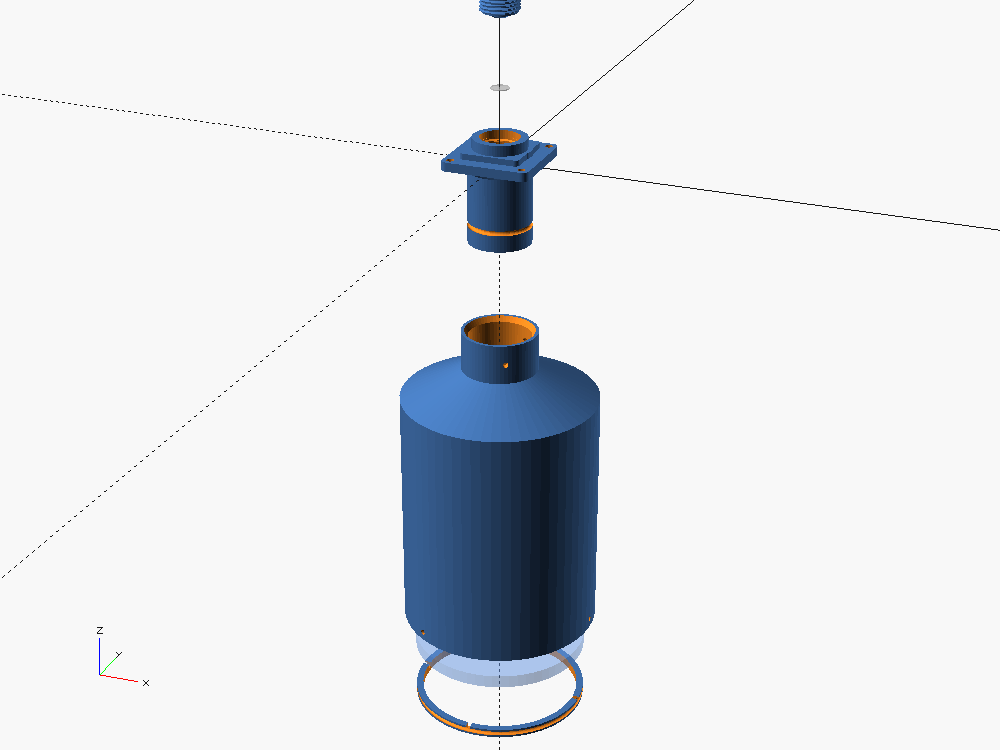
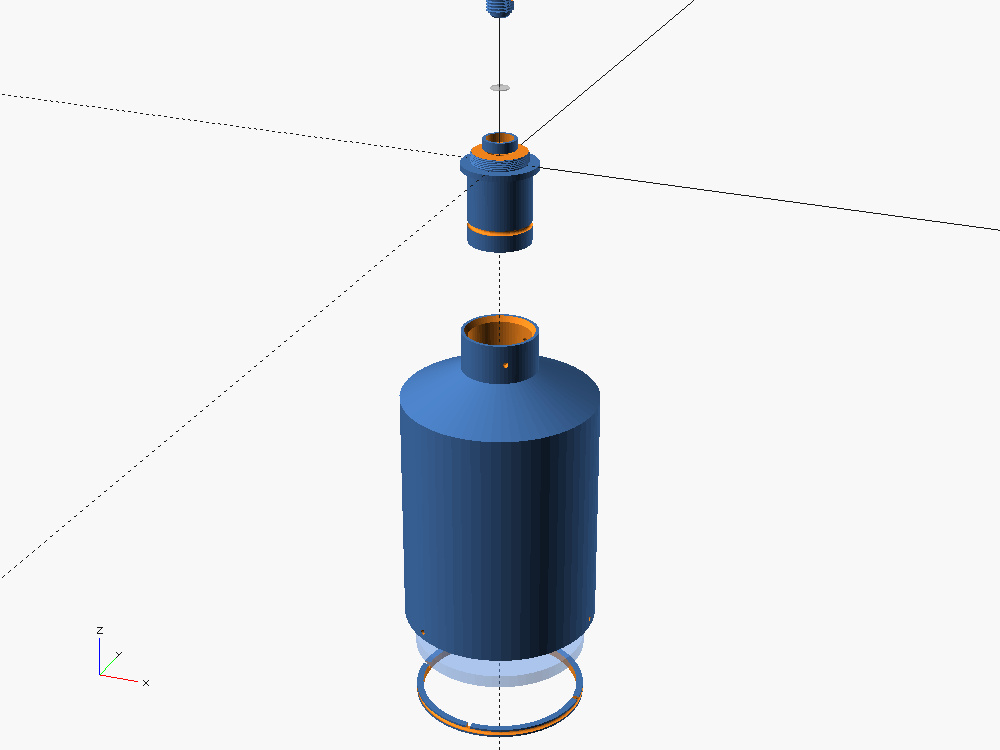
receiver: thread into a stock C-mount instead of a custom front plate
The vibrometer receiver's `stem` was a bespoke front plate — a verbatim copy
of the camera register + 4-corner M3 pattern, bolted to a bare body. Add a
`mount` param so it can instead screw straight into a stock generic_29mm_c
front plate like any C-mount lens, with no custom plate to keep in sync.

- mount = "C" (default): stem ends in a male 1"-32 thread + Ø34 grip shoulder
  (stem_cmount()). The filter cell is shrunk (fring_d 11.5, cell Ø ~15,
  asserted <= 15.5) so it clears the camera's Ø16 sensor_window_d bore; the
  filter still sits at z ~ 2 mm, surrounded by the thread, not moved off
  focus. flange_to_optic is unchanged — the shim stack trims focus as before.
- mount = "flange": the old bolt-on register + M3 pattern, kept as an option
  for a stiff joint or keyed orientation (needs body_outer_x/y).
- stem.scad split into stem_cmount() / stem_flange() sharing vr_optical_path().
- vibrometer_80mm.toml: mount = "C", drop body_outer_*.
- Docs (receiver-optic.md, design-notes.md) updated; load-path notes now call
  for a barrel brace + thread-locker on the printed C-mount joint.

make check green; all parts render 2-manifold in both modes.

Changed region(s): [[0.434, 0.1533, 0.558, 0.2453], [0.465, 0.0, 0.527, 0.0307]]

diff --git a/docs/receiver-optic.md b/docs/receiver-optic.md
@@ -6,23 +6,41 @@ It is its own component **type** (`components/receiver/*.toml`, `scad/lib/receiv
 like `lens`, because none of the camera sensor stack applies.
 
 ```
-  target <--[ Ø80 optic ]===== barrel =====(socket)[ neck ][ flange ]-- mapscam body -- detector
-             f ≈ 150 mm    Ø90 tube, holds the optic   plugs in,    z = 0             (BPW34 + AFE)
-                                                       3 screws     808 nm filter here
+  target <--[ Ø80 optic ]===== barrel =====(socket)[ neck ][ 1"-32 ]-- generic_29mm_c -- detector
+             f ≈ 150 mm    Ø90 tube, holds the optic   plugs in,   thread   camera        (BPW34 + AFE)
+                                                       3 screws   z = 0   808 nm filter here
 ```
 
 The bought **Ø80 mm, f ≈ 150 mm** optic focuses the returned beam through a small
 **8 mm 808 nm bandpass filter** onto the detector, which rides on a stock mapscam
-`body` bolted to the rear of the `stem` (same rectangular register + 4-corner M3
-pattern as a camera `front_plate` — a `generic_29mm` body drops straight on).
+camera.
+
+## Camera interface — `mount`
+
+**`mount = "C"` (default).** The `stem` ends in a **male 1"-32 thread** and screws
+straight into a stock `generic_29mm_c` front plate (`lens_mount_style = "thread"`) —
+the receiver is just a C-mount lens, no custom front plate. A Ø`shoulder_d` disc
+gives a finger grip and backstops the thread; the slim filter cell (Ø`filter_boss_d_c`
+≈ 15) passes through the front-plate's Ø16 bore and noses a few mm into the body
+cavity. It seats the same way a mapscam printed C-mount lens does; the camera shim
+stack trims focus. Thread this on **before** plugging the heavy `barrel` onto the
+neck. A Ø90 barrel on a printed 1"-32 thread is a long cantilever — plan on a barrel
+brace for anything but short bench runs, and a dab of thread-locker or a set screw so
+it can't back off under vibration.
+
+**`mount = "flange"`.** The `stem` carries its own front plate — the same
+rectangular register + 4-corner M3 pattern as a camera `front_plate` (a bare
+`generic_29mm` body bolts straight on). Use this when you want the stiff bolted
+joint or a keyed orientation. Set `body_outer_x` / `body_outer_y` to that body's
+footprint.
 
 ## Fixed focus
 
-This is **one rigid tube**. The `stem` (body interface + filter cell + a short neck)
+This is **one rigid tube**. The `stem` (camera interface + filter cell + a short neck)
 plugs `join_len` into a socket in the rear of the `barrel` (holds the optic) and is
-pinned with **3 radial screws** into a groove in the neck. `flange_to_optic` (flange
-face → optic rear face) is fixed at the design value; the camera shim stack takes up
-the detector-position slack, same as a normal lens.
+pinned with **3 radial screws** into a groove in the neck. `flange_to_optic`
+(seating plane → optic rear face) is fixed at the design value; the camera shim stack
+takes up the detector-position slack, same as a normal lens.
 
 **Focus control is a later pass** — most likely by making the element position
 inside the `barrel` adjustable (a threaded element cell), which is a small, cheap
@@ -30,11 +48,11 @@ part and keeps the load path out of any moving joint.
 
 ## Coordinate convention
 
-Mirror of the camera: **`z = 0` is the flange face** that seats on the body, **+Z
-runs into the body** (register boss, bolt bosses, filter, detector), the optics
-project to **−Z**, out toward the target. `stem.scad` is authored in this frame;
-`barrel.scad` is authored in its own frame (optic rear face at `z = 0`) and
-`dispatch.scad` places it at `−flange_to_optic`.
+Mirror of the camera: **`z = 0` is the seating plane** (the `"C"` shoulder, or the
+`"flange"` front face) that meets the camera, **+Z runs into the camera** (thread,
+filter cell, detector), the optics project to **−Z**, out toward the target.
+`stem.scad` is authored in this frame; `barrel.scad` is authored in its own frame
+(optic rear face at `z = 0`) and `dispatch.scad` places it at `−flange_to_optic`.
 
 ## The stack (enforced in `scad/lib/receiver/params.scad`)
 
@@ -55,14 +73,15 @@ with it (asserted); push it down and the neck gets stubby.
 
 `assert()`s fail the render if: the clear aperture leaves no seat rim; a wall
 (barrel / stem / socket) is under `wall`; the neck bore vignettes the cone at the
-joint; the filter retainer thread doesn't fit the neck bore; or `flange_to_optic`
-is too short for the barrel.
+joint; the filter retainer thread doesn't fit the neck bore; `flange_to_optic`
+is too short for the barrel; or (`mount = "C"`) the filter cell is too fat to clear
+a stock Ø16 front-plate bore.
 
 ## Parts (`make vibrometer_80mm`)
 
 | Part | Prints | Notes |
 |---|---|---|
-| `stem` | 1 | body interface + filter cell (Ø24 boss into the body) + Ø28 neck. Print flange-down; no support. |
+| `stem` | 1 | camera interface (`"C"` male 1"-32 + grip shoulder, or `"flange"` register) + filter cell + Ø28 neck. Print shoulder/flange-down; no support. |
 | `barrel` | 1 | Ø90 × ~145 mm; optic cell + tube + rear socket. Print optic-end-down. Big — budget time / filament. |
 | `lens_retainer` | 1 | plain ring, held by the barrel's 3 radial M3 set screws. |
 | `filter_ring` | 1 | top-hat: a Ø8.1 nose drops onto the filter, the threaded body engages the stem. Turn from the body side. |
@@ -75,24 +94,30 @@ seats front-face-down on the **Ø6 field stop shoulder** (`filter_clear_d`, whic
 also the FOV stop).
 
 The **`filter_ring`** is a top hat. The stem bore above the seat, going toward the
-body, is: `Ø8.6 pocket` → `funnel` → `Ø17 internal thread` (3.5 mm) → `Ø17.6
-clearance` → out the boss top. Drop the ring in nose-first from the body side and
-turn it with a flat screwdriver (top slot): the Ø17 body passes through the Ø17.6
-clearance, its thread catches the stem thread, and it winds down ~2.3 turns
-(1.5 mm pitch). It seats when the **`fring_nose_h` = 2.0 mm nose meets the filter
-back face at the same instant the body shoulder bottoms on the Ø17 → Ø8.6 step** —
-so the filter is captured with *zero* clamping stress on the thin glass while the
-thread carries its full 3.5 mm engagement. A funnel at the pocket mouth centres the
-nose; the ring's Ø6 bore is the clear aperture. Assemble the whole cell before
-bolting the stem to the body.
+body, is: `Ø8.6 pocket` → `funnel` → `Ø`fring_d` internal thread` → clearance → out
+the boss top. Drop the ring in nose-first from the body side and turn it with a flat
+screwdriver (top slot): its threaded body catches the stem thread and winds down. It
+seats when the **`fring_nose_h` = 2.0 mm nose meets the filter back face at the same
+instant the body shoulder bottoms on the funnel step** — so the filter is captured
+with *zero* clamping stress on the thin glass while the thread carries its full
+`fring_engage` engagement. A funnel at the pocket mouth centres the nose; the ring's
+Ø6 bore is the clear aperture. Assemble the whole cell before mounting the stem on
+the camera.
 
-The cell lives in a **Ø`filter_boss_d` (24 mm) boss** on the body side of the flange,
-projecting ~7 mm into the body cavity — check it clears your AFE PCB / carrier ledge.
-At ~150 mm from a Ø74 aperture the marginal ray hits the filter at ≤ 14°, a ~2.5 nm
-passband shift against a 25 nm half-width — negligible.
+The cell diameter (`filter_boss_d_c`) is set by `mount`:
+
+| `mount` | thread `fring_d` | cell Ø | where the cell sits |
+|---|---|---|---|
+| `"C"` | 11.5 (1.25 mm pitch) | ~15 | passes the Ø16 front-plate bore, noses a few mm into the cavity |
+| `"flange"` | 17 (1.5 mm pitch) | ~23 | projects ~7 mm into the body cavity |
+
+Either way the filter itself sits at z ≈ 2 mm — surrounded by the thread, not moved
+off focus. Check the cell clears your AFE PCB / carrier ledge. At ~150 mm from a Ø74
+aperture the marginal ray hits the filter at ≤ 14°, a ~2.5 nm passband shift against
+a 25 nm half-width — negligible.
 
 Fasteners: 3 × M3 (stem↔barrel joint, tapped into the socket wall); 3 × M3 set
-screws (lens retainer); 4 × M3 into the body inserts (flange).
+screws (lens retainer); `"flange"` only: 4 × M3 into the body inserts.
 
 ## GUESSED numbers — measure and update `components/receiver/vibrometer_80mm.toml`
 
@@ -107,8 +132,10 @@ from the optic spec; if the real optic is not exactly f = 150 mm, set
 
 - **No focus.** Fixed tube — see above. Fine for a fixed bench standoff; add the
   moving-element cell before you need to work multiple target distances.
-- **Cantilever.** A Ø90 barrel on a 39 mm flange is floppy held horizontal; plan on
-  a ring clamp around the barrel for anything but short bench runs.
+- **Cantilever.** A Ø90 barrel on a printed 1"-32 thread (`mount = "C"`) or a 39 mm
+  flange is floppy held horizontal, and a thread can back off under vibration. Plan
+  on a brace around the barrel for anything but short bench runs, and thread-locker
+  or a set screw on the C-mount joint. `mount = "flange"` gives the stiffer joint.
 - **Filter near the focus.** The 8 mm filter sits ~150 mm from the optic, near
   focus, so marginal rays hit it at up to ~15° — enough to shift a narrow 808 nm
   passband. Fine for qualitative spectra; move it into collimated space if you need

diff --git a/docs/design-notes.md b/docs/design-notes.md
@@ -115,12 +115,15 @@ focus is still the camera's shim stack plus (for a real lens) the focus ring.
 `mapscam` also prints a **large-aperture receiver telescope** for the M.A.P.S. laser
 vibrometer: a bought Ø80 mm f≈150 mm optic, feeding the return beam through an 8 mm
 808 nm bandpass filter to a detector on a stock `body`. **Fixed focus for now** — one
-rigid tube: a short `stem` (body interface + filter cell) plugs into the rear of the
+rigid tube: a short `stem` (camera interface + filter cell) plugs into the rear of the
 long `barrel` (holds the optic) and is pinned with 3 screws. Separate component
-*type* (`components/receiver/*.toml`, `scad/lib/receiver/`); it reuses the camera
-register + M3 pattern so the stem is a `front_plate` peer. Focus control is a planned
-follow-up (a threaded element cell inside the barrel). Full write-up:
-[receiver-optic.md](receiver-optic.md).
+*type* (`components/receiver/*.toml`, `scad/lib/receiver/`). By default (`mount = "C"`)
+the stem ends in a **male 1"-32 thread** and screws straight into a stock
+`generic_29mm_c` front plate — the receiver is just a C-mount lens, no custom plate;
+the slim filter cell passes through the front-plate bore. `mount = "flange"` keeps the
+alternative: the stem carries its own `front_plate`-peer register + M3 pattern and
+bolts to a bare body. Focus control is a planned follow-up (a threaded element cell
+inside the barrel). Full write-up: [receiver-optic.md](receiver-optic.md).
 
 ## Known limitations of v0.1
 

diff --git a/README.md b/README.md
@@ -61,7 +61,7 @@ not hand-edit them. See [docs/components.md](docs/components.md).
 
 | Variant | Description |
 |---|---|
-| `vibrometer_80mm` | Ø80 f150 receiver, fixed focus, 808 nm filter, 39 mm body |
+| `vibrometer_80mm` | Ø80 f150 receiver, fixed focus, 808 nm filter, C-mount |
 <!-- END GENERATED:components -->
 
 Add your own: drop a TOML in `components/camera/` or `components/lens/`, run `make gen`,
